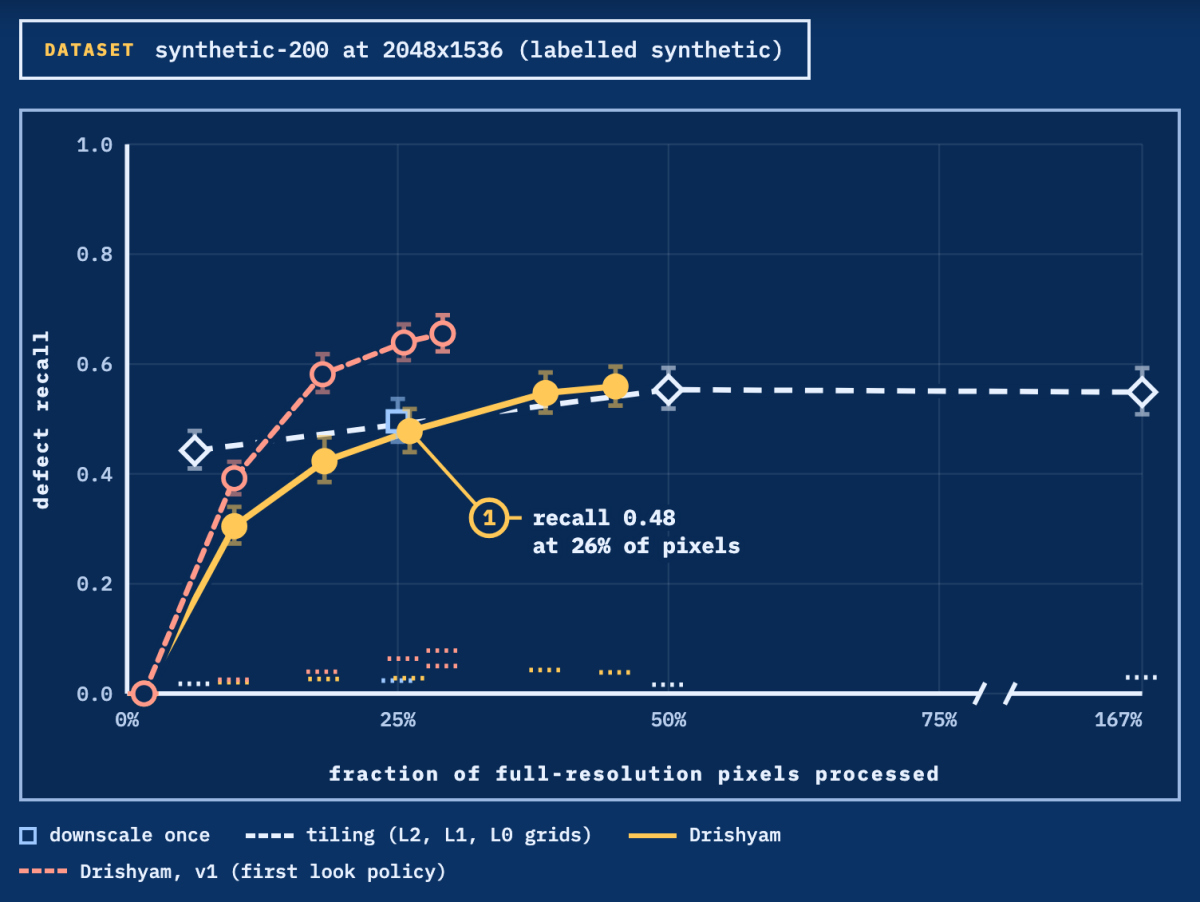
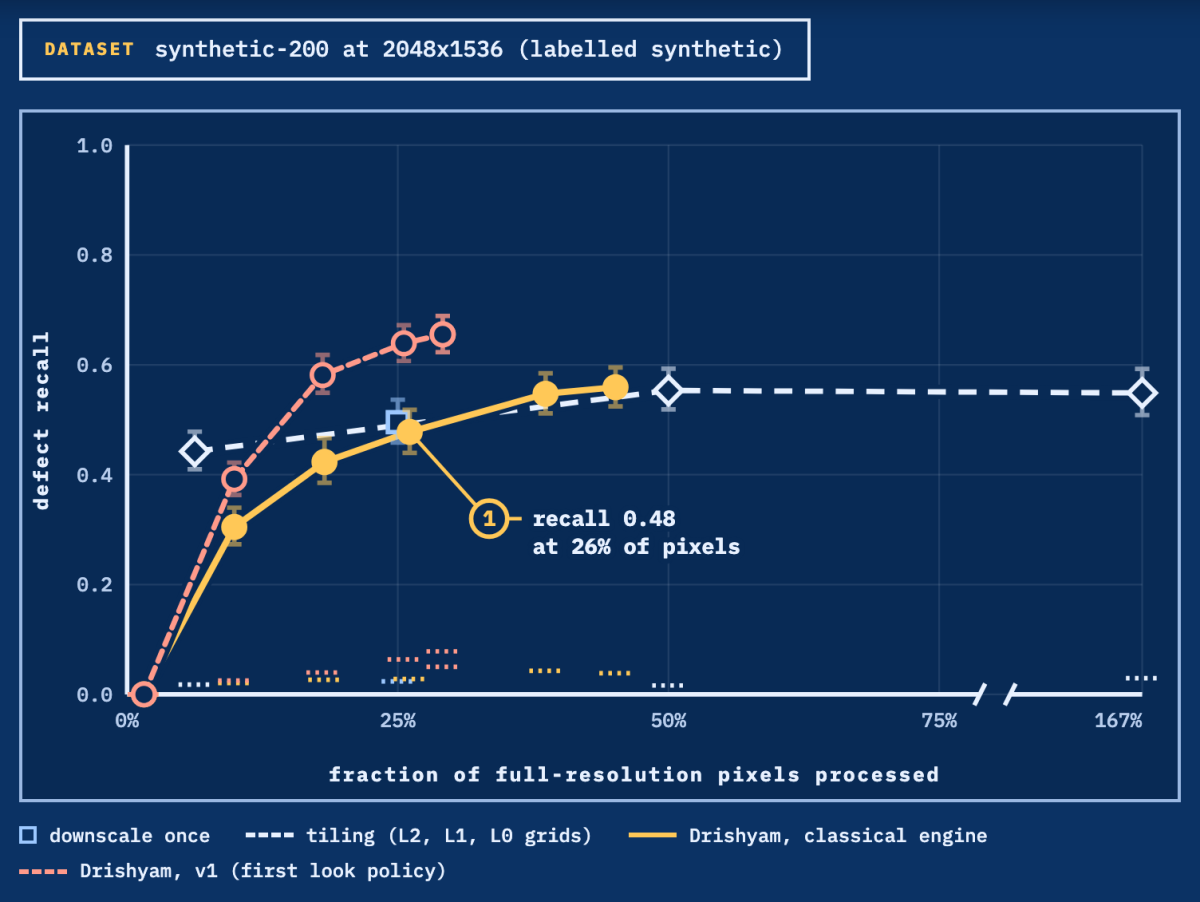
site, docs: FIG. 4's legend names the classical engine's series
The FIG. 4.1 and 4.2 legend called the classical engine's curve plain "Drishyam", beside
"Drishyam, v1 (first look policy)". It now says "Drishyam, classical engine" (summary.json and
codebrim/summary.json are its published runs). docs/recall_vs_pixels.png re-rendered with
scripts/render_figures.py's fig41 alone, so docs/architecture.png is untouched. The hero's
classical card already says "Classical engine, synthetic test set".

diff --git a/public/js/results.js b/public/js/results.js
@@ -7,7 +7,7 @@ import { size } from './panels.js';
 const SERIES = [
   ['downscale', 'downscale once', 'downscale', 'rect'],
   ['tiling', 'tiling (L2, L1, L0 grids)', 'tiling', 'diamond'],
-  ['drishyam', 'Drishyam', 'drishyam', 'circle'],
+  ['drishyam', 'Drishyam, classical engine', 'drishyam', 'circle'],  // summary.json and codebrim/summary.json: its published runs
 ];
 // v1's Drishyam curve on the same images (evals.model_eval --publish): the segmenter the live demo runs since 2026-10-21,
 // with its first look policy (v1-policy2, live since 2026-10-22, is #policy2-note under FIG. 4.2).
